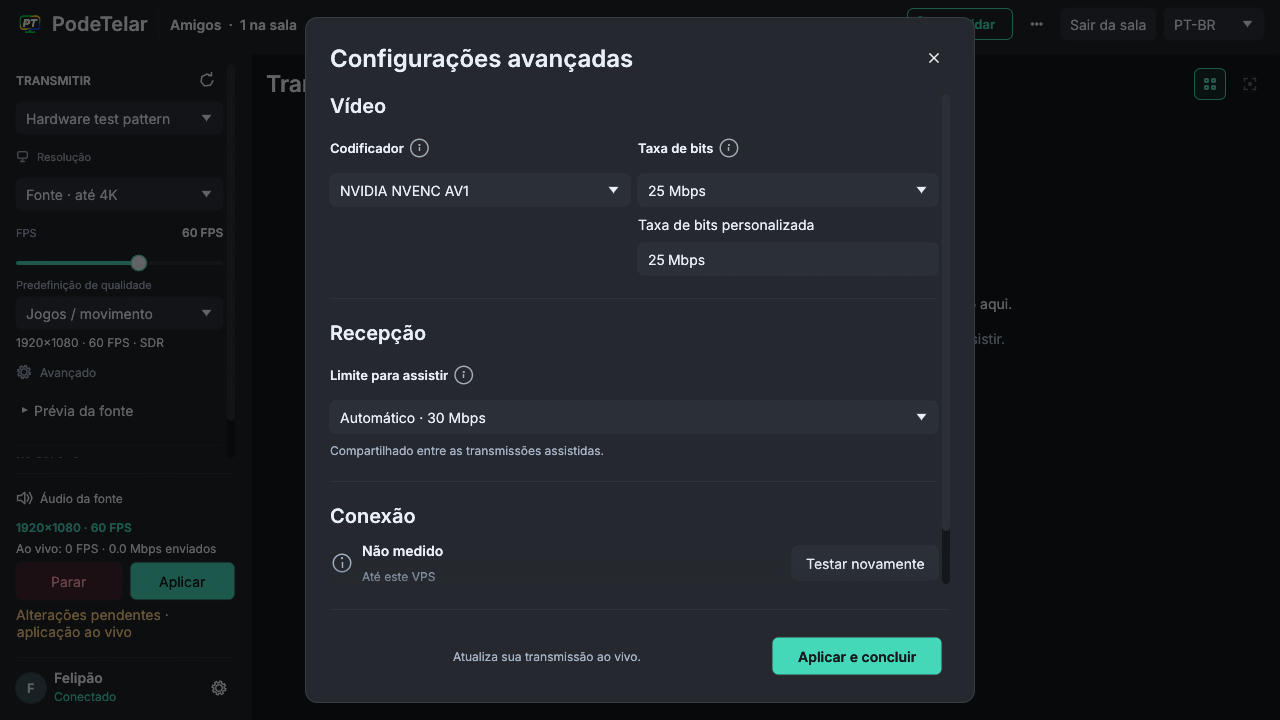
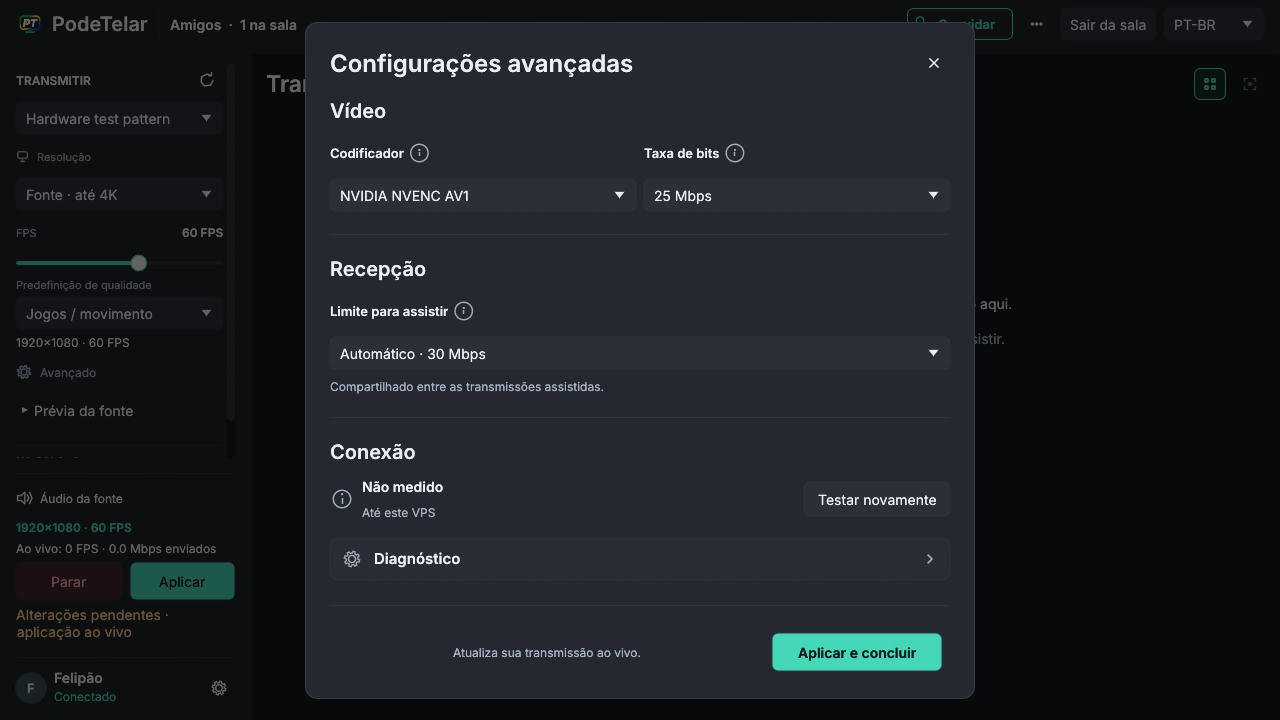
Refresh native screenshots for preset and custom bitrate selection

diff --git a/docs/verification/native-ui-room-fixes.md b/docs/verification/native-ui-room-fixes.md
@@ -54,6 +54,20 @@ native audio work (PR #40); this change does not qualify or deploy that pilot.
 - `cargo clippy --locked -p freedomstream-publisher --example ui-review --features
 ui-review -- -D warnings`: passed for the native capture helper.
 
+## Sidebar and bitrate follow-up
+
+The sidebar mode summary now omits the redundant SDR label. Advanced bitrate
+selection keeps Automatic, followed by 6, 8, 10, 12, 16, 20, 25, 35, 50, 75 and
+100 Mbps, then Custom. Presets do not show a second input. Custom shows only the
+word Custom in the selector and exposes the editable number below, including
+when that number equals a preset. Choosing a preset or Automatic hides the field.
+The existing 1–100 Mbps input/model limit remains unchanged.
+
+Independent GPT-6.1-Sol high source review approved this follow-up. The full Node
+24 check passed. Isolated native tests passed (publisher: 77 passed, 5 ignored).
+Native validation used an isolated checkout of the UI branch because concurrent codec edits in the shared workspace temporarily
+made a mixed-source test build fail. These codec edits are outside this PR.
+
 ## Native renderer captures
 
 These are **fixture layouts rendered by the actual native egui/Glow application**,
@@ -67,6 +81,8 @@ these layout captures. A production Discord user invocation has not been repeate
 
 ![PT-BR advanced settings](images/ui-room-fixes/advanced-settings-pt.jpg)
 
+![PT-BR Custom bitrate](images/ui-room-fixes/advanced-custom-pt.jpg)
+
 ![PT-BR stream information](images/ui-room-fixes/stream-information-pt.jpg)
 
 ![960×540 advanced settings](images/ui-room-fixes/advanced-settings-small-pt.jpg)
@@ -76,6 +92,7 @@ these layout captures. A production Discord user invocation has not been repeate
 To reproduce, build `cargo build --locked -p freedomstream-publisher --example
 ui-review --features ui-review` with the configured native runtime. Run the GUI
 example with `room`, `settings` or `information`, followed by a **new absolute JPEG
-path**. Add `--english` or `--narrow` for EN or 960×540; defaults are PT-BR and
+path**. Add `--custom` to expose the Custom bitrate field in settings. Add
+`--english` or `--narrow` for EN or 960×540; defaults are PT-BR and
 1280×720. The helper requests a native framebuffer capture and exits automatically.
 Run commands through hidden noninteractive processes as required by AGENTS.md.

diff --git a/docs/implementation-plan.md b/docs/implementation-plan.md
@@ -30,6 +30,9 @@ confirmation must dispatch the existing validated Apply command for changed live
 settings; idle confirmation must never start publication. Keep busy and invalid
 selections disabled. Preserve existing in-place bitrate/profile updates and
 stream restart behavior for source, encoder, resolution and frame-rate changes.
+Remove the redundant SDR sidebar label. Keep Automatic plus 6–100 Mbps bitrate
+presets, followed by Custom; show the numeric field only for Custom and retain
+the existing 1–100 Mbps validation limit.
 
 Group watched-stream measurements into reception, network/decoding and sender
 sections. Distinguish muted labels from stronger values, collapse detailed
